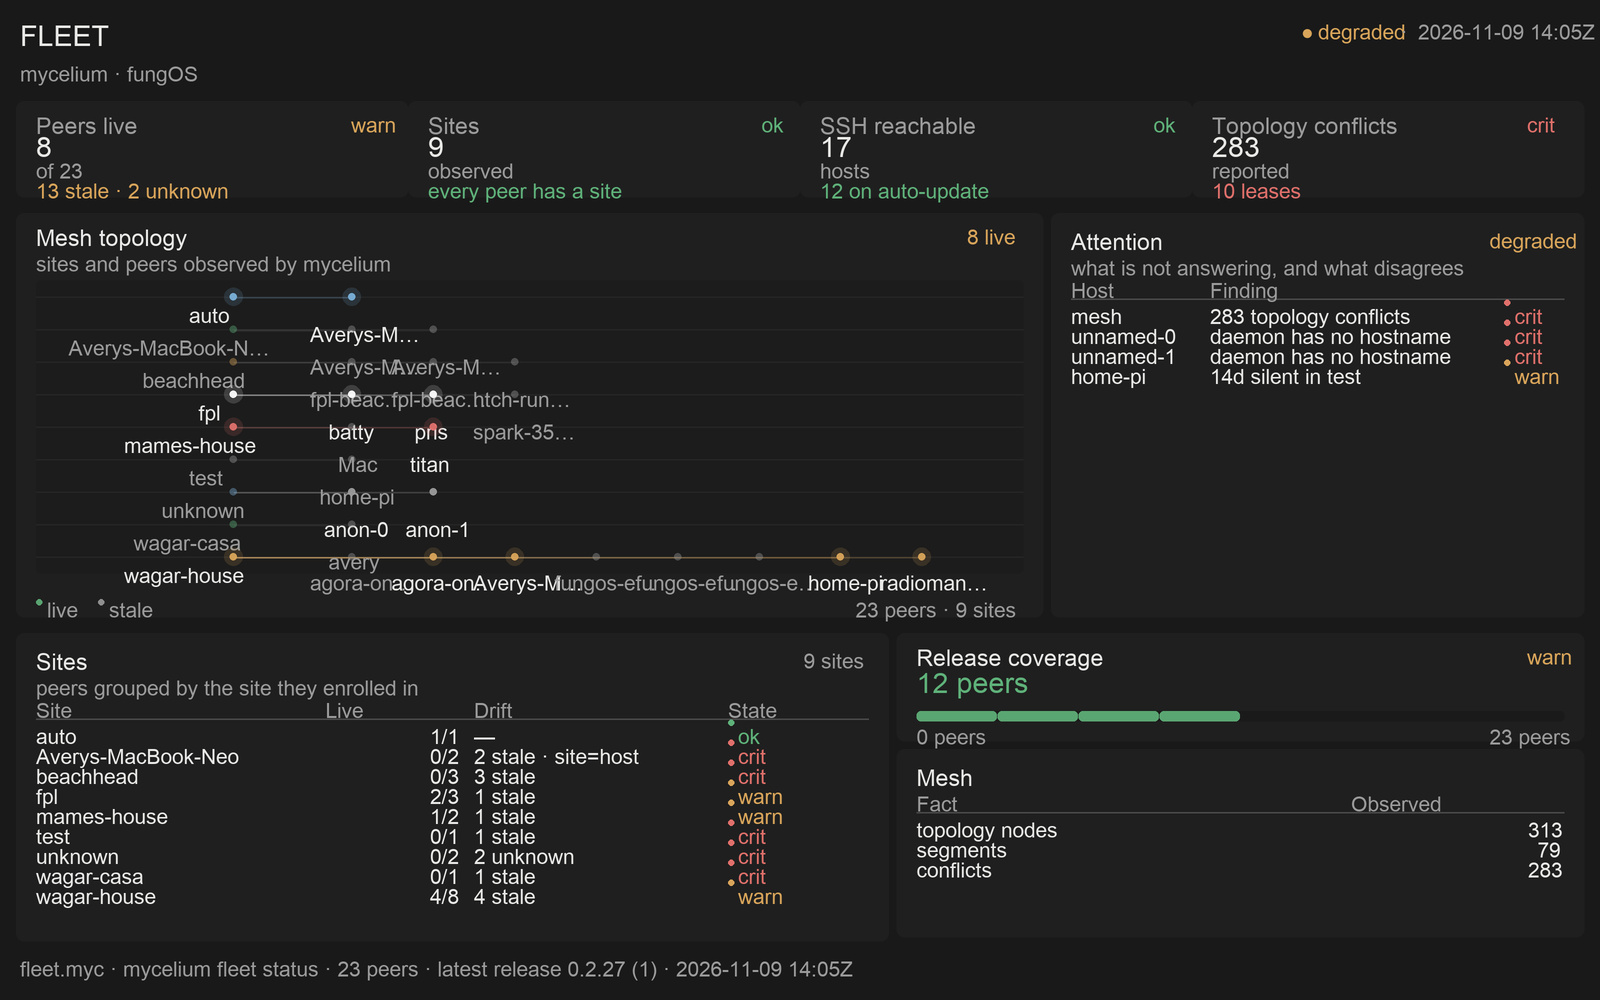
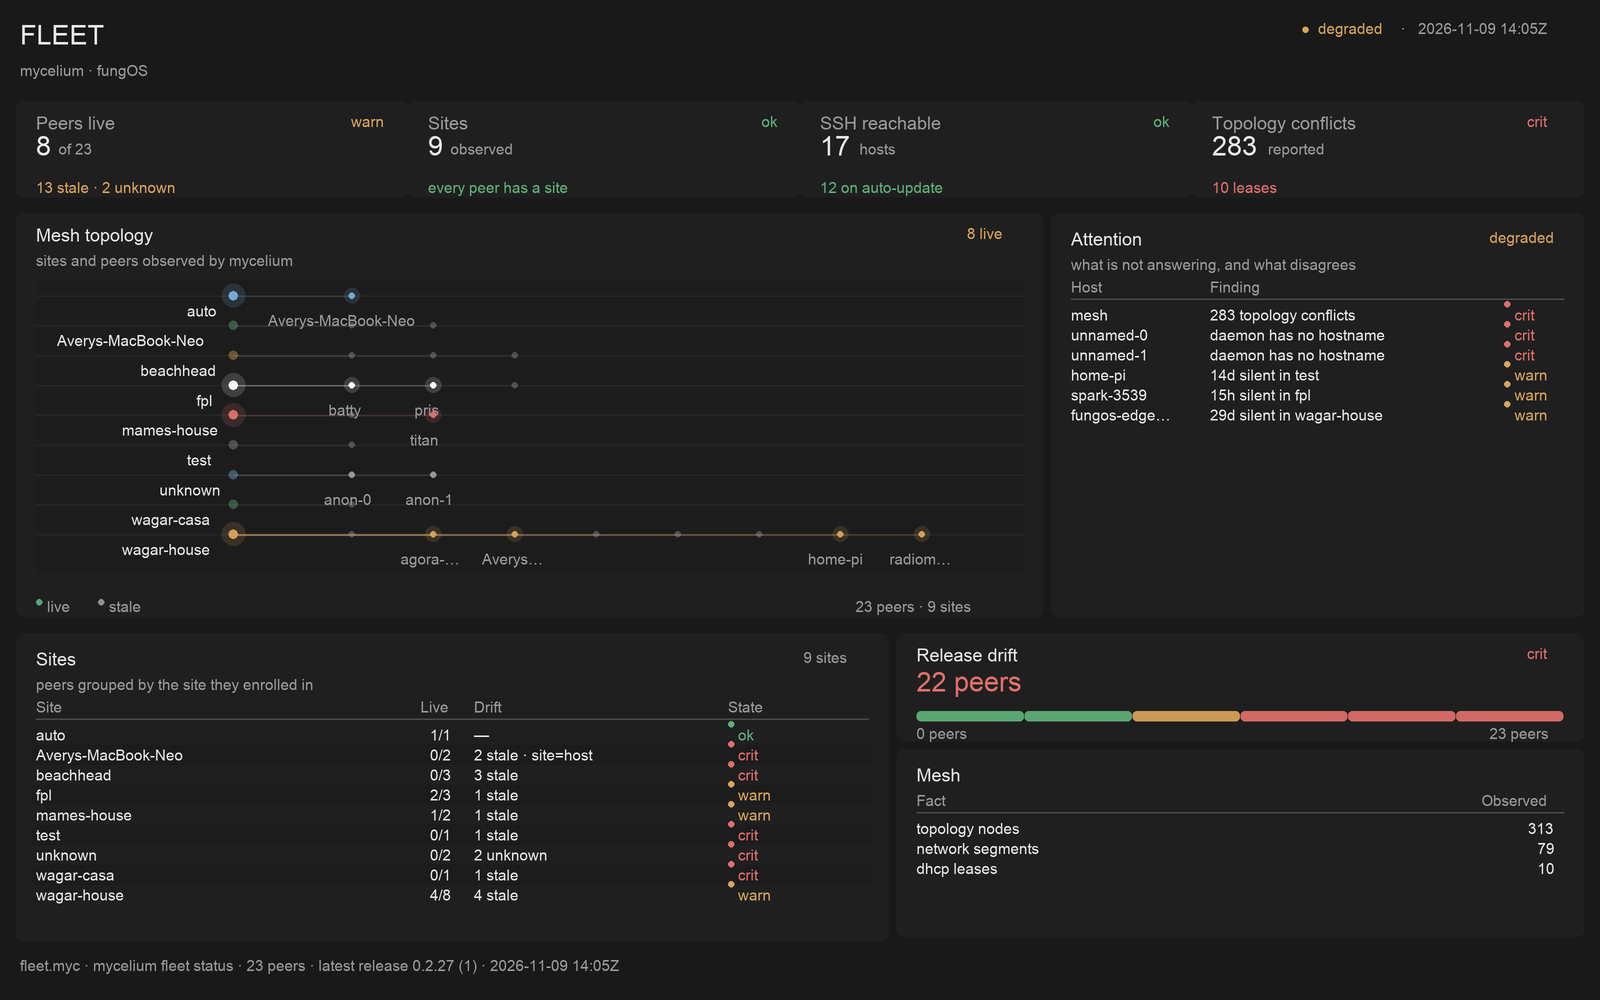
ui: draw text at the size the layout measured, and fit labels to their gaps
The crowding was not the data. The preview renderer finished the library's
font equation as `scale * body * depth` instead of `scale^2 * body * depth`,
so every label drew about 40% larger than the width the layout reserved. The
geometry was correct and the picture was not.

- tools/shot.lua: complete the equation with scale squared. Tables, graph
  labels and stat captions now occupy the space they claimed.
- ui.graph: fit each below label to the gap between its labelled neighbours
  (and to the plot edge), leave a visible gutter, and truncate from the tail
  when two labels share a head, so `fpl-beachhead-1` and `-2` do not both
  become `fpl-be...`. Duplicate labels in one row are suppressed. Labels
  default to muted; per-node `size` and `label_ink` carry hierarchy; below
  labels get a gutter so the last row does not sit on its rail; edge defaults
  calm down.
- ui.table: headings follow their column's right alignment, the zebra uses a
  colour that differs from the card, cells sit on the row's centre line, and
  fit_text keeps a 6% margin for the estimate's optimism.
- ui.stat: the unit sits on the value's baseline instead of the card's floor.
- fleet: the gauge measured coverage with a higher-is-worse threshold ramp, so
  52% read green. It now reports release drift, which is the direction the ramp
  means. Only sites and live peers are named in the graph; stale names live in
  the attention table. 251 primitives, still under the 256-node wall cap.

diff --git a/spores/fleet/src/lib.rs b/spores/fleet/src/lib.rs
@@ -111,7 +111,11 @@ pub struct Graph {
 #[derive(Debug, Clone, Serialize)]
 pub struct GraphNode {
     pub id: String,
-    pub label: String,
+    /// The name this dot can afford. A wall cannot name twenty-three peers in a
+    /// thousand pixels; naming the sites and the live peers is the hierarchy
+    /// that stays readable, and the attention table names the silent ones.
+    #[serde(skip_serializing_if = "Option::is_none")]
+    pub label: Option<String>,
     pub x: f64,
     pub y: f64,
     pub ink: String,
@@ -121,6 +125,13 @@ pub struct GraphNode {
     /// guessing a shape it did not lay out.
     #[serde(skip_serializing_if = "Option::is_none")]
     pub label_position: Option<String>,
+    /// The dot's size in logical pixels. A site is a parent row and a peer is a
+    /// child; two sizes say that without a second legend.
+    #[serde(skip_serializing_if = "Option::is_none")]
+    pub size: Option<f64>,
+    /// A row header is brighter than the peer labels under it.
+    #[serde(skip_serializing_if = "Option::is_none")]
+    pub label_ink: Option<String>,
     /// Draw a hairline across the plot on this node's row. A layered graph is a
     /// set of rows; the rail is what makes nine of them read as a table of
     /// sites instead of a cloud with a left margin.
@@ -263,19 +274,6 @@ fn field(value: &Option<String>) -> String {
         .filter(|value| !value.is_empty())
         .map(str::to_string)
         .unwrap_or_else(|| "unknown".to_string())
-}
-
-/// A label that fits the column it was laid out in. The full hostname lives in
-/// the row data and the attention table, so shortening here costs the graph a
-/// suffix, not the reader the identity.
-fn short_label(value: &str, max: usize) -> String {
-    let mut chars = value.chars();
-    let prefix: String = chars.by_ref().take(max).collect();
-    if chars.next().is_some() {
-        format!("{prefix}…")
-    } else {
-        prefix
-    }
 }
 
 fn short_id(id: &str) -> String {
@@ -427,7 +425,10 @@ fn graph(peers: &[Peer], sites: &[SiteGroup], live: i64) -> Graph {
         let site_id = format!("site:{}", site.name);
         nodes.push(GraphNode {
             id: site_id.clone(),
-            label: short_label(&site.name, 16),
+            // The full name: the library measures the column it actually has
+            // and decides where to spend the ellipsis. Truncating here cost the
+            // reader a suffix the library could have kept.
+            label: Some(site.name.clone()),
             x: 0.20,
             y,
             ink: site.ink.into(),
@@ -435,6 +436,8 @@ fn graph(peers: &[Peer], sites: &[SiteGroup], live: i64) -> Graph {
             // The site name is the row's left column; hosts start to its right.
             // A label on the right would land on the first host dot.
             label_position: Some("left".into()),
+            size: Some(9.0),
+            label_ink: Some("text".into()),
             rail: Some(true),
             halo: Some(live_here > 0),
         });
@@ -445,14 +448,14 @@ fn graph(peers: &[Peer], sites: &[SiteGroup], live: i64) -> Graph {
             } else {
                 "muted"
             };
-            // An anonymous row has no hostname to print twice; its ordinal is
-            // the only label that tells the two dots apart.
-            let label = if peer.state == State::Unknown {
-                // `unnamed-0` is a name, and nine characters is one more than
-                // the row can hold at eight hosts.
-                short_id(&peer.id).replace("unnamed-", "anon-")
-            } else {
-                short_label(&peer.host, 8)
+            // Live peers get names. A stale dot is a fact (the row exists) but
+            // its name is not what a reader needs from the graph; the attention
+            // table carries it. An anonymous row has no hostname to print at
+            // all, and its ordinal is the only thing that tells two dots apart.
+            let label = match peer.state {
+                State::Live => Some(peer.host.clone()),
+                State::Unknown => Some(short_id(&peer.id).replace("unnamed-", "anon-")),
+                State::Stale => None,
             };
             nodes.push(GraphNode {
                 id: id.clone(),
@@ -462,6 +465,8 @@ fn graph(peers: &[Peer], sites: &[SiteGroup], live: i64) -> Graph {
                 ink: ink.into(),
                 state: peer.state.as_str().into(),
                 label_position: Some("below".into()),
+                size: Some(6.0),
+                label_ink: None,
                 rail: None,
                 halo: Some(peer.state == State::Live),
             });
@@ -612,7 +617,7 @@ fn attention_table(peers: &[Peer], topology: Option<&TopologySummary>) -> Table 
         ));
     }
     findings.sort_by_key(|(rank, row)| (*rank, row["finding"].as_str().unwrap_or("").to_string()));
-    let rows = findings.into_iter().take(4).map(|(_, row)| row).collect();
+    let rows = findings.into_iter().take(6).map(|(_, row)| row).collect();
     Table {
         columns: vec![
             Column {
@@ -645,8 +650,8 @@ fn facts_table(topology: Option<&TopologySummary>) -> Table {
     let rows = match topology {
         Some(topology) => vec![
             serde_json::json!({ "fact": "topology nodes", "value": topology.nodes }),
-            serde_json::json!({ "fact": "segments", "value": topology.segments }),
-            serde_json::json!({ "fact": "conflicts", "value": topology.conflicts }),
+            serde_json::json!({ "fact": "network segments", "value": topology.segments }),
+            serde_json::json!({ "fact": "dhcp leases", "value": topology.leases }),
         ],
         None => vec![serde_json::json!({ "fact": "topology", "value": "not captured" })],
     };
@@ -694,7 +699,6 @@ pub fn build(status: &[StatusRow], topology: Option<&Value>, now: i64) -> Snapsh
         .count() as i64;
     let ssh = peers.iter().filter(|peer| peer.ssh).count() as i64;
     let updating = peers.iter().filter(|peer| peer.auto_update).count() as i64;
-    let recorded = peers.iter().filter(|peer| peer.release.is_some()).count() as i64;
     let latest = peers
         .iter()
         .filter_map(|peer| peer.release.as_deref())
@@ -780,30 +784,31 @@ pub fn build(status: &[StatusRow], topology: Option<&Value>, now: i64) -> Snapsh
 
     let graph = graph(&peers, &sites, live);
     let attention = attention_table(&peers, summary.as_ref());
-    let coverage = if total == 0 {
-        0
-    } else {
-        recorded * 100 / total
-    };
+    // Drift, not coverage: a gauge's thresholds mean "this value or worse", so
+    // the number has to grow in the direction that is bad. Peers on the newest
+    // observed release are the exception, and the rest are the number a wall
+    // should be able to see without reading a legend.
+    let drift = total - on_latest;
+    let drift_pct = if total == 0 { 0 } else { drift * 100 / total };
     let health = Gauge {
-        title: "Release coverage".into(),
-        value: recorded,
+        title: "Release drift".into(),
+        value: drift,
         max: total.max(1),
-        status: if coverage < 60 {
+        status: if drift_pct >= 60 {
+            "crit".into()
+        } else if drift_pct >= 30 {
             "warn".into()
-        } else if coverage < 90 {
-            "ok".into()
         } else {
             "live".into()
         },
         thresholds: vec![
             Threshold {
-                value: 60,
+                value: (total * 30 / 100).max(1),
                 ink: "warning".into(),
             },
             Threshold {
-                value: 90,
-                ink: "success".into(),
+                value: (total * 60 / 100).max(1),
+                ink: "danger".into(),
             },
         ],
     };

diff --git a/spores/fleet/README.md b/spores/fleet/README.md
@@ -84,6 +84,10 @@ The topology card is `ui.graph`:
 - **Positions are data.** `spore-fleet` lays out one row per site and a host row
   to its right; the library draws the coordinates it is given. A force layout or
   a GPU layout can replace the producer without touching the view.
+- **Only sites and live peers are named.** A stale dot is a fact (the row
+  exists); its name is not what a wall needs, and the attention table carries it.
+  The library fits each remaining label to the gap it actually has, and the
+  producer no longer truncates names before the library can measure them.
 - **Edges are rotated rects**, one node per edge, so the same graph renders on
   Canvas's current rect/text ABI, in the browser and in the preview.
 - **A GPU producer takes over by grant.** The producer names
@@ -101,7 +105,7 @@ degrading them to `Group` — see
 
 ## The wall budget
 
-The fixture is **254 primitives**, under the stock Canvas cap of 256. That
+The fixture is **251 primitives**, under the stock Canvas cap of 256. That
 number is an assertion in `tests/ui_fixture.lua`: a view that grows one more
 panel has to give something up, not discover the limit on the wall.
 

diff --git a/spores/gallery/README.md b/spores/gallery/README.md
@@ -6,6 +6,9 @@ not metrics, alerts, or authority.
 
 ![Dashboard primitives](screenshot.png)
 
+The capture predates the graph card; `ui/gallery.lua` and the fixture check it
+even though this image does not show it yet.
+
 ## What it exercises
 
 - `ui.stat` — value, unit, delta, status, and an optional drill-in action.
@@ -14,6 +17,10 @@ not metrics, alerts, or authority.
   optional per-row actions.
 - `ui.chart` — title, status, axes, grid, threshold line, selection band, series
   legend, and optional legend/plot actions.
+- `ui.graph` — typed nodes and edges with positions as data. Edges are rotated
+  rects so the current ABI draws them, and a `resource` places a host GPU surface
+  instead. The catalog fixture exercises rails, per-node size, label placement,
+  live/stale inks and node hit regions.
 - Shared tokens for ink, spacing, radius, and type. Canvas's Lua scene ABI has a
   smaller semantic ink set than the library, so the library normalizes aliases
   such as `surface_sunken` and `divider` before emitting primitives.
